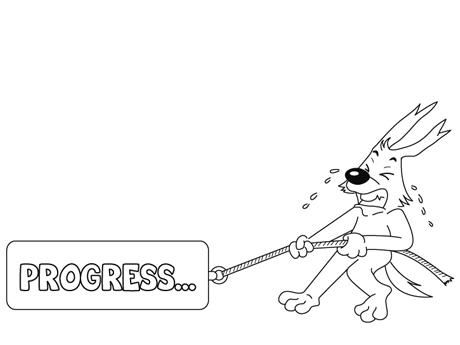
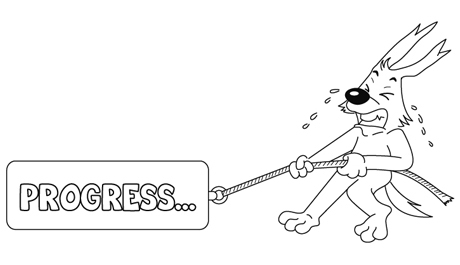
all tabs responsive

Changed region(s): [[0.0, 0.0906, 1.0, 0.9358], [0.6696, 0.4226, 0.7, 0.4528], [0.6391, 0.4528, 0.6696, 0.483]]

diff --git a/index.html b/index.html
@@ -283,7 +283,7 @@
 									</div>
 									
 									<div class="container-actions special-pos-2">
-										<img src="images/tabs/myself/fetch.jpg" alt="Fetch the status" width="460" height="345">
+										<img src="images/tabs/myself/fetch.jpg" alt="Fetch the status" width="460" height="265">
 										<h4>Fetch the Status</h4>
 										<p>Of a project and message you when your manager sends you a message containing the keyword 'project progress'.</p>
 									</div>
@@ -447,7 +447,7 @@
 									</div>
 									
 									<div class="container-actions pull-right special-pos-3">
-										<img src="images/tabs/small-team/fetch.jpg" alt="Set an Alarm" width="460" height="345">
+										<img src="images/tabs/small-team/fetch.jpg" alt="Set an Alarm" width="460" height="265">
 										<h4>Fetch tomorrow's weather</h4>
 										<p>and message the manager if it will be over 30 degrees and there are less than four team members scheduled.</p>
 									</div>
